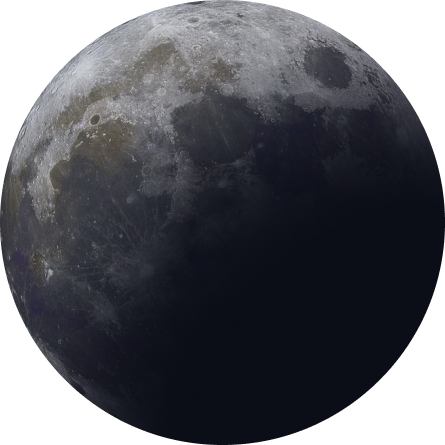
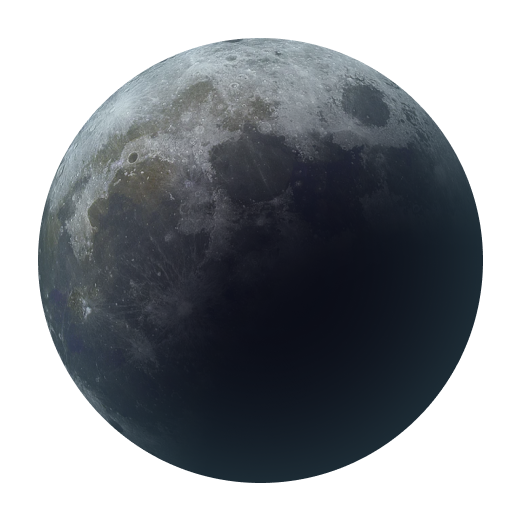
Rotating the moon

diff --git a/src/Components/SpaceLaunch/SpaceLaunch.jsx b/src/Components/SpaceLaunch/SpaceLaunch.jsx
@@ -1,37 +1,39 @@
 import React from 'react'
 import Navbar from '../Navbar/Navbar'
+import Launch from '../../Assets/Images/Launch.png'
 const SpaceLaunch = () => {
   return (
     <div className="text-white h-screen">
     <Navbar />
 
-    
-    <div className="  flex flex-col justify-center items-center lg:flex-row  lg:justify-around  ">
-
-      <div className="  lg:flex lg:h-full lg:flex-col lg:justify-start lg:mb-24  lg:p-4 ">
-
-      <div className="flex justify-center md:mt-24 items-center text-2xl lg:text-3xl lg:justify-start  md:m-10 ">
-            <div className="mr-2">01</div>
-            <div>Meet Your Crew</div>
-        </div>
-      <div className=" space-y-9  text-center lg:text-left flex flex-col  m-5 md:p-6 md:w-[470px] lg:w-[500px]">
-            <span className="text-2xl md:text-3xl text-gray-400">COMMANDER</span>
-            <h1 className="text-4xl md:text-5lg lg:text-6xl">DOUGLAS HURELY </h1>
-
-            <p className="text-xl font-light">
-              Lorem ipsum dolor sit amet consectetur adipisicing elit. Pariatur
-              mollitia impedit obcaecati ipsam cum quis, dignissimos hic
-              deserunt explicabo quae exercitationem perspiciatis suscipit
-              nostrum molestias.
-          </p>
-          <ul>
-            <li className="p-2 m-2 bg-gray-500  inline-block rounded-full"></li>
-            <li className="p-2 m-2 bg-gray-500  inline-block rounded-full"></li>
-            <li className="p-2 m-2 bg-gray-500  inline-block rounded-full"></li>
-            <li className="p-2 m-2 bg-gray-500  inline-block rounded-full"></li>
-            <li className="p-2 m-2 bg-gray-500  inline-block rounded-full"></li>
-          </ul>
+    <div className="flex justify-center my-6 items-center text-2xl md:justify-start  p-4">
+      <div className="mr-2">01</div>
+      <div>Space Launch 101</div>
       </div>
+      
+    <div className="  flex flex-col justify-center items-center lg:flex-row  lg:justify-around  ">
+  
+          
+      <div className="  lg:flex lg:h-full lg:flex-col lg:justify-start lg:mb-24  lg:p-4 order-3 lg:order-none">
+
+         
+          <div className=" space-y-6  text-center lg:text-left flex flex-col  m-5 md:p-6 md:w-[470px] lg:w-[500px]">
+                <span className="text-xl mt-8 md:text-3xl text-gray-400">THE TERIMINILOGY...</span>
+                <h1 className="text-4xl md:text-5lg lg:text-6xl">LAUNCH VEHICLE</h1>
+
+                <p className="text-xl font-light pb-10">
+                  Lorem ipsum dolor sit amet consectetur adipisicing elit. Pariatur
+                  mollitia impedit obcaecati ipsam cum quis, dignissimos hic
+                  deserunt explicabo quae exercitationem perspiciatis suscipit
+                  nostrum molestias.
+              </p>
+              <ul className='order-first lg:order-none'>
+                <li className="p-5 m-2 bg-white inline-block text-black rounded-full border-black ">1</li>
+                <li className="p-5 m-2 bg-gray-500  inline-block rounded-full border-white ">2</li>
+                <li className="p-5 m-2 bg-gray-500  inline-block rounded-full border-white ">3</li>
+               
+              </ul>
+          </div>
 
         
       
@@ -39,9 +41,10 @@ const SpaceLaunch = () => {
 
       </div>
 
+  
 
-      <div className=" p-9 ">
-       <div className=' h-80 w-[375px] bg-gradient-to-r from-sky-500 to-indigo-500'></div>
+      <div className="  flex justify-center items-center text-center "  >
+       <div className=' w-96 h-80  md:w-[768px] md:h-[310px] lg:w-[525px] lg:h-[500px] bg-gradient-to-r from-red-500 to-blue-500 bg-no-repeat bg-contain ' ></div>
       </div>
       
 

diff --git a/src/Components/Destination/Destination.jsx b/src/Components/Destination/Destination.jsx
@@ -1,18 +1,19 @@
 import React from "react";
 import Navbar from "../Navbar/Navbar";
 import Moon from "../../Assets/Images/Moon.png";
+import './destination.css';
 
 const Destination = () => {
   return (
     <div>
       <Navbar />
-        <div className="text-4xl  text-white flex justify-center lg:justify-start p-11 lg:p-7">
+        <div className="text-2xl md:text-3xl lg:text-4xl text-white flex justify-center lg:justify-start p-11 lg:p-7">
           <di className="mr-6 lg:ml-8">01</di>
           <h1 className="">Pick Your Destination</h1>
         </div>
       
         <div className="flex flex-col justify-center item-center   lg:flex-row lg:justify-around">
-          <img src={Moon} alt="" className="inline p-16 md:p-32 lg:p-24" />
+          <img src={Moon} alt="" className="inline p-16 md:p-32 lg:p-20 App-logo" />
 
           <div>
           <article className="  ">

diff --git a/src/App.js b/src/App.js
@@ -6,10 +6,10 @@ function App() {
     
       <div className=' max-w-[1440px] mx-auto  ' >
       
-      /<Home />
-      <Destination />
-      <Crew />
-      <SpaceLaunch / >
+        {/* <Home /> */}
+        <Destination />
+        {/* <Crew /> */}
+        {/* <SpaceLaunch /> */}
       </div>
 
   

diff --git a/src/Components/Destination/destination.css b/src/Components/Destination/destination.css
@@ -1,0 +1,15 @@
+ .App-logo {
+      animation: App-logo-spin infinite 40s linear;
+    }
+
+  
+
+  
+  @keyframes App-logo-spin {
+    from {
+      transform: rotate(0deg);
+    }
+    to {
+      transform: rotate(360deg);
+    }
+  }

diff --git a/tailwind.config.js b/tailwind.config.js
@@ -3,7 +3,9 @@ module.exports = {
     "./src/**/*.{js,jsx,ts,tsx}",
   ],
   theme: {
-    extend: {},
+    extend: {
+  
+    }
   },
   plugins: [],
 }

diff --git a/src/Components/Navbar/navbr.css b/src/Components/Navbar/navbr.css
@@ -5,10 +5,10 @@ ul li{
     
 }
 
-ul li:hover{
+/* ul li:hover{
     border-bottom: 2px solid #FFF;
 
-}
+} */
 
 
 .blue-glassmorphism {
